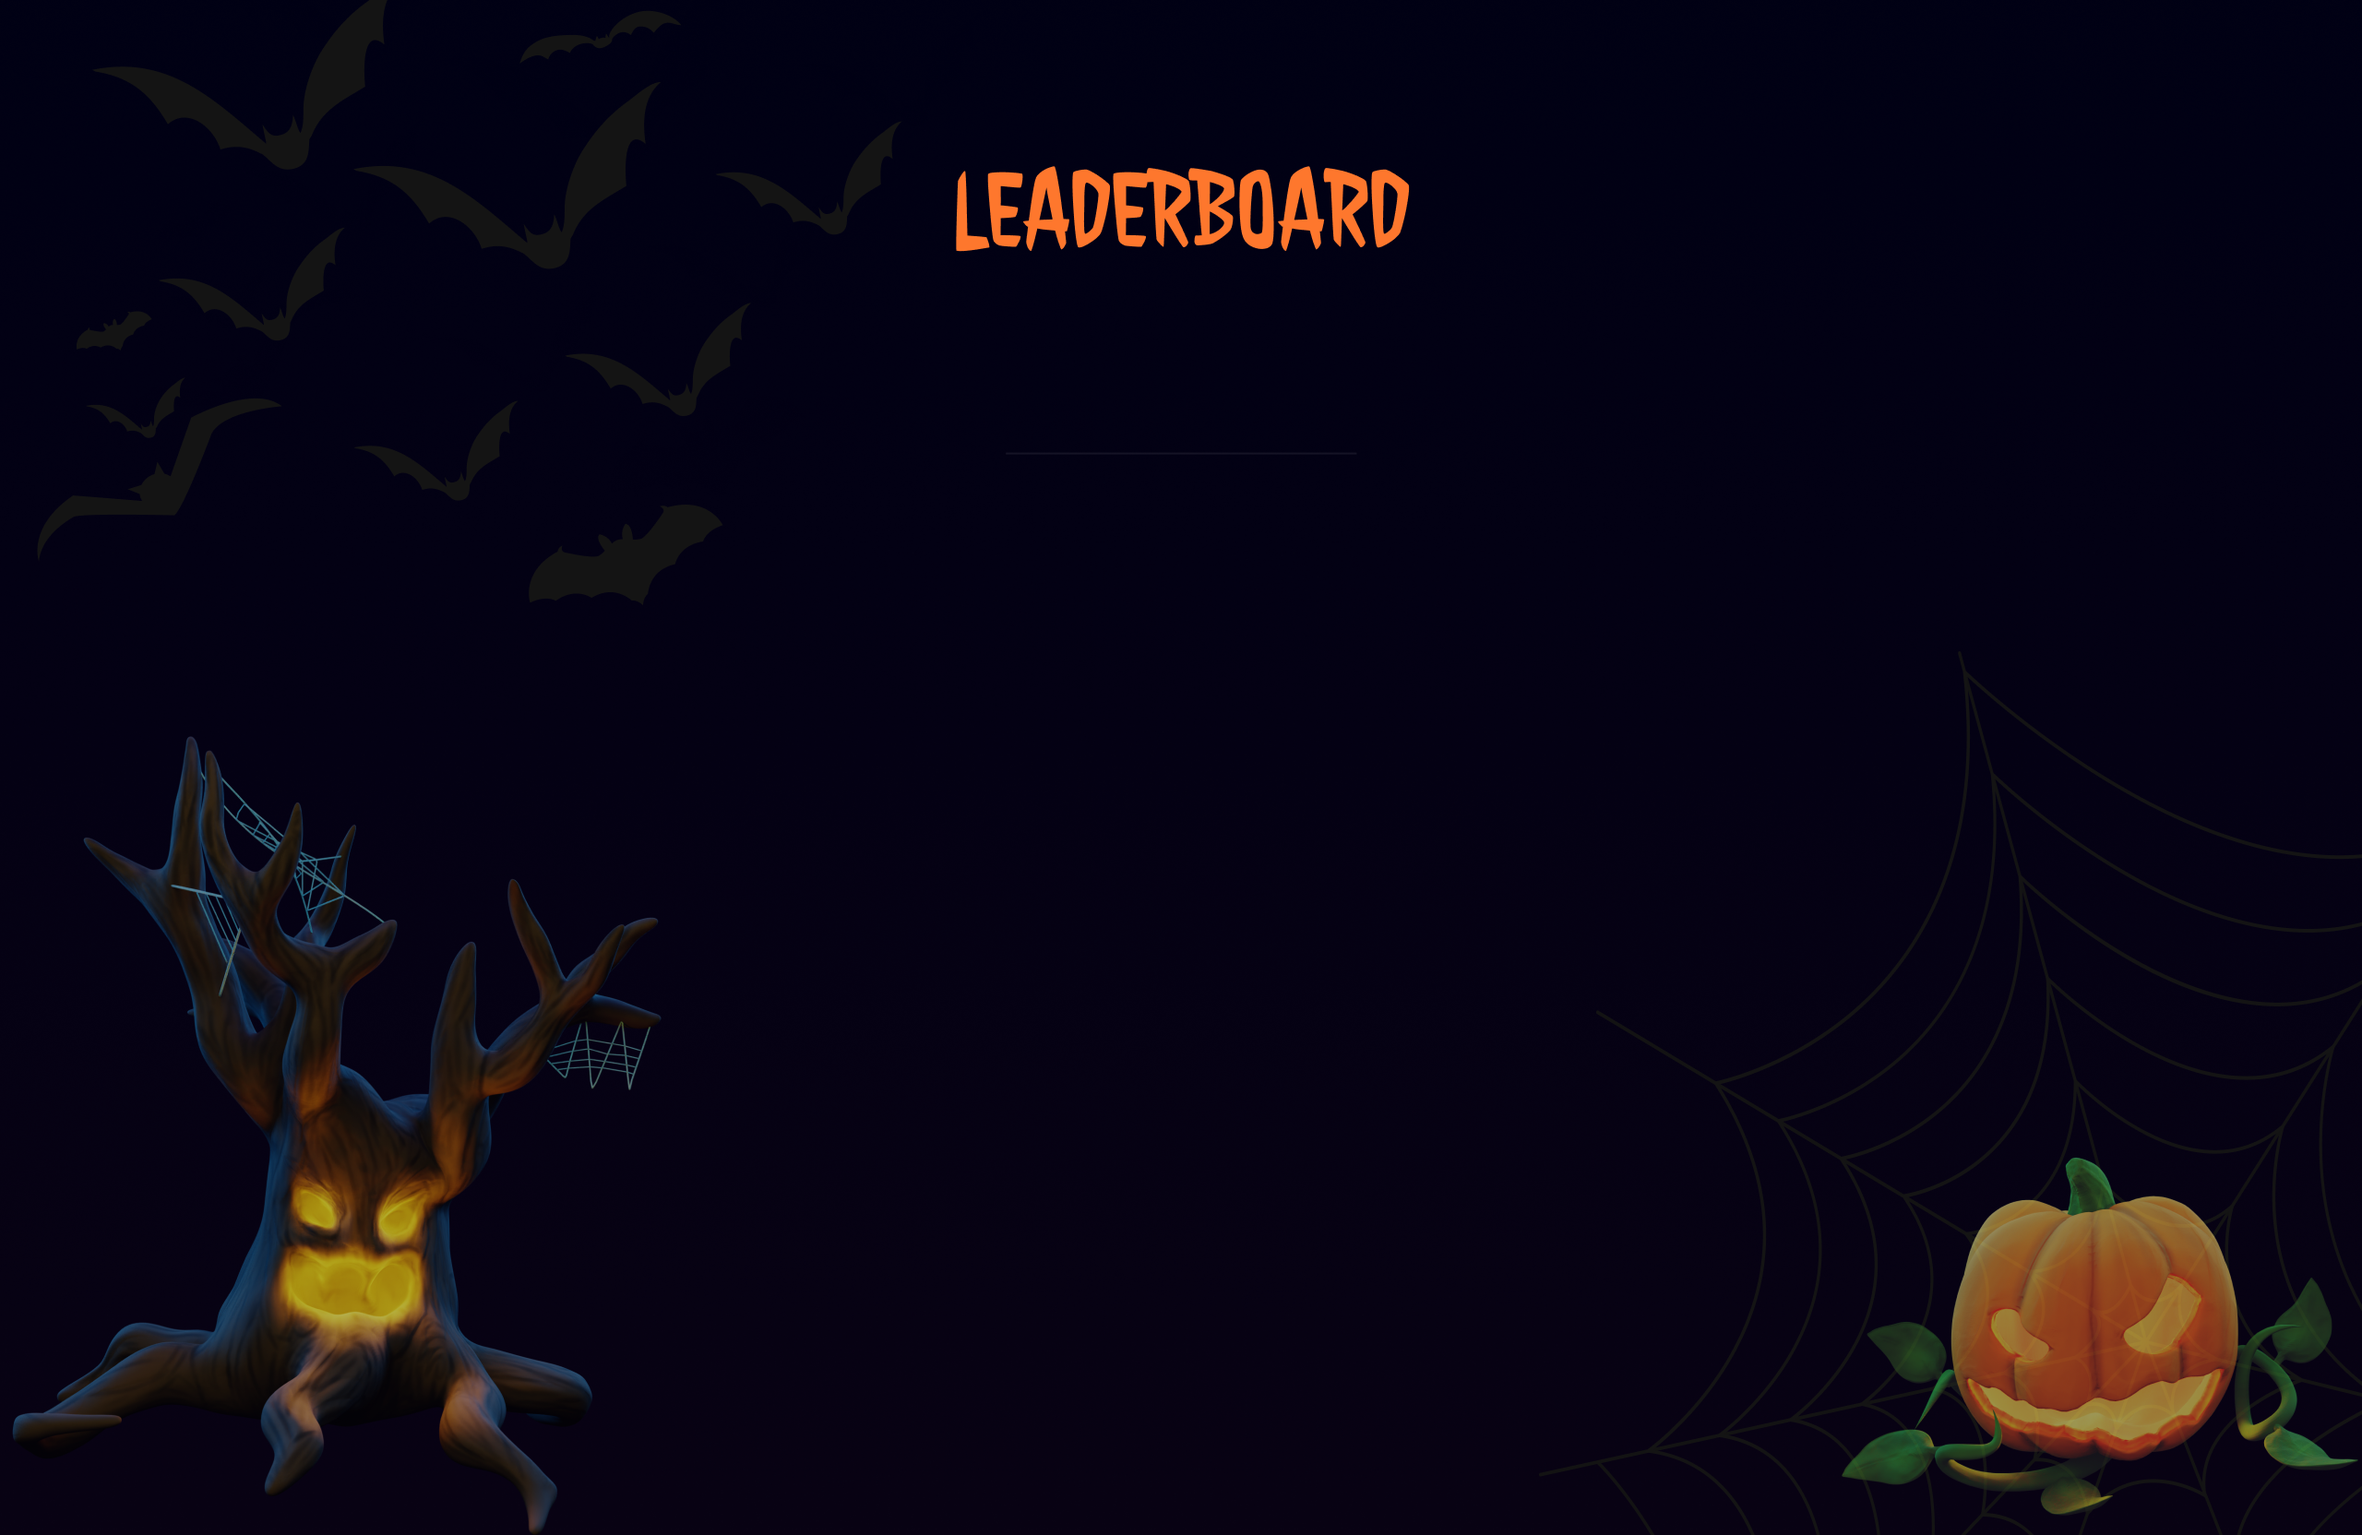
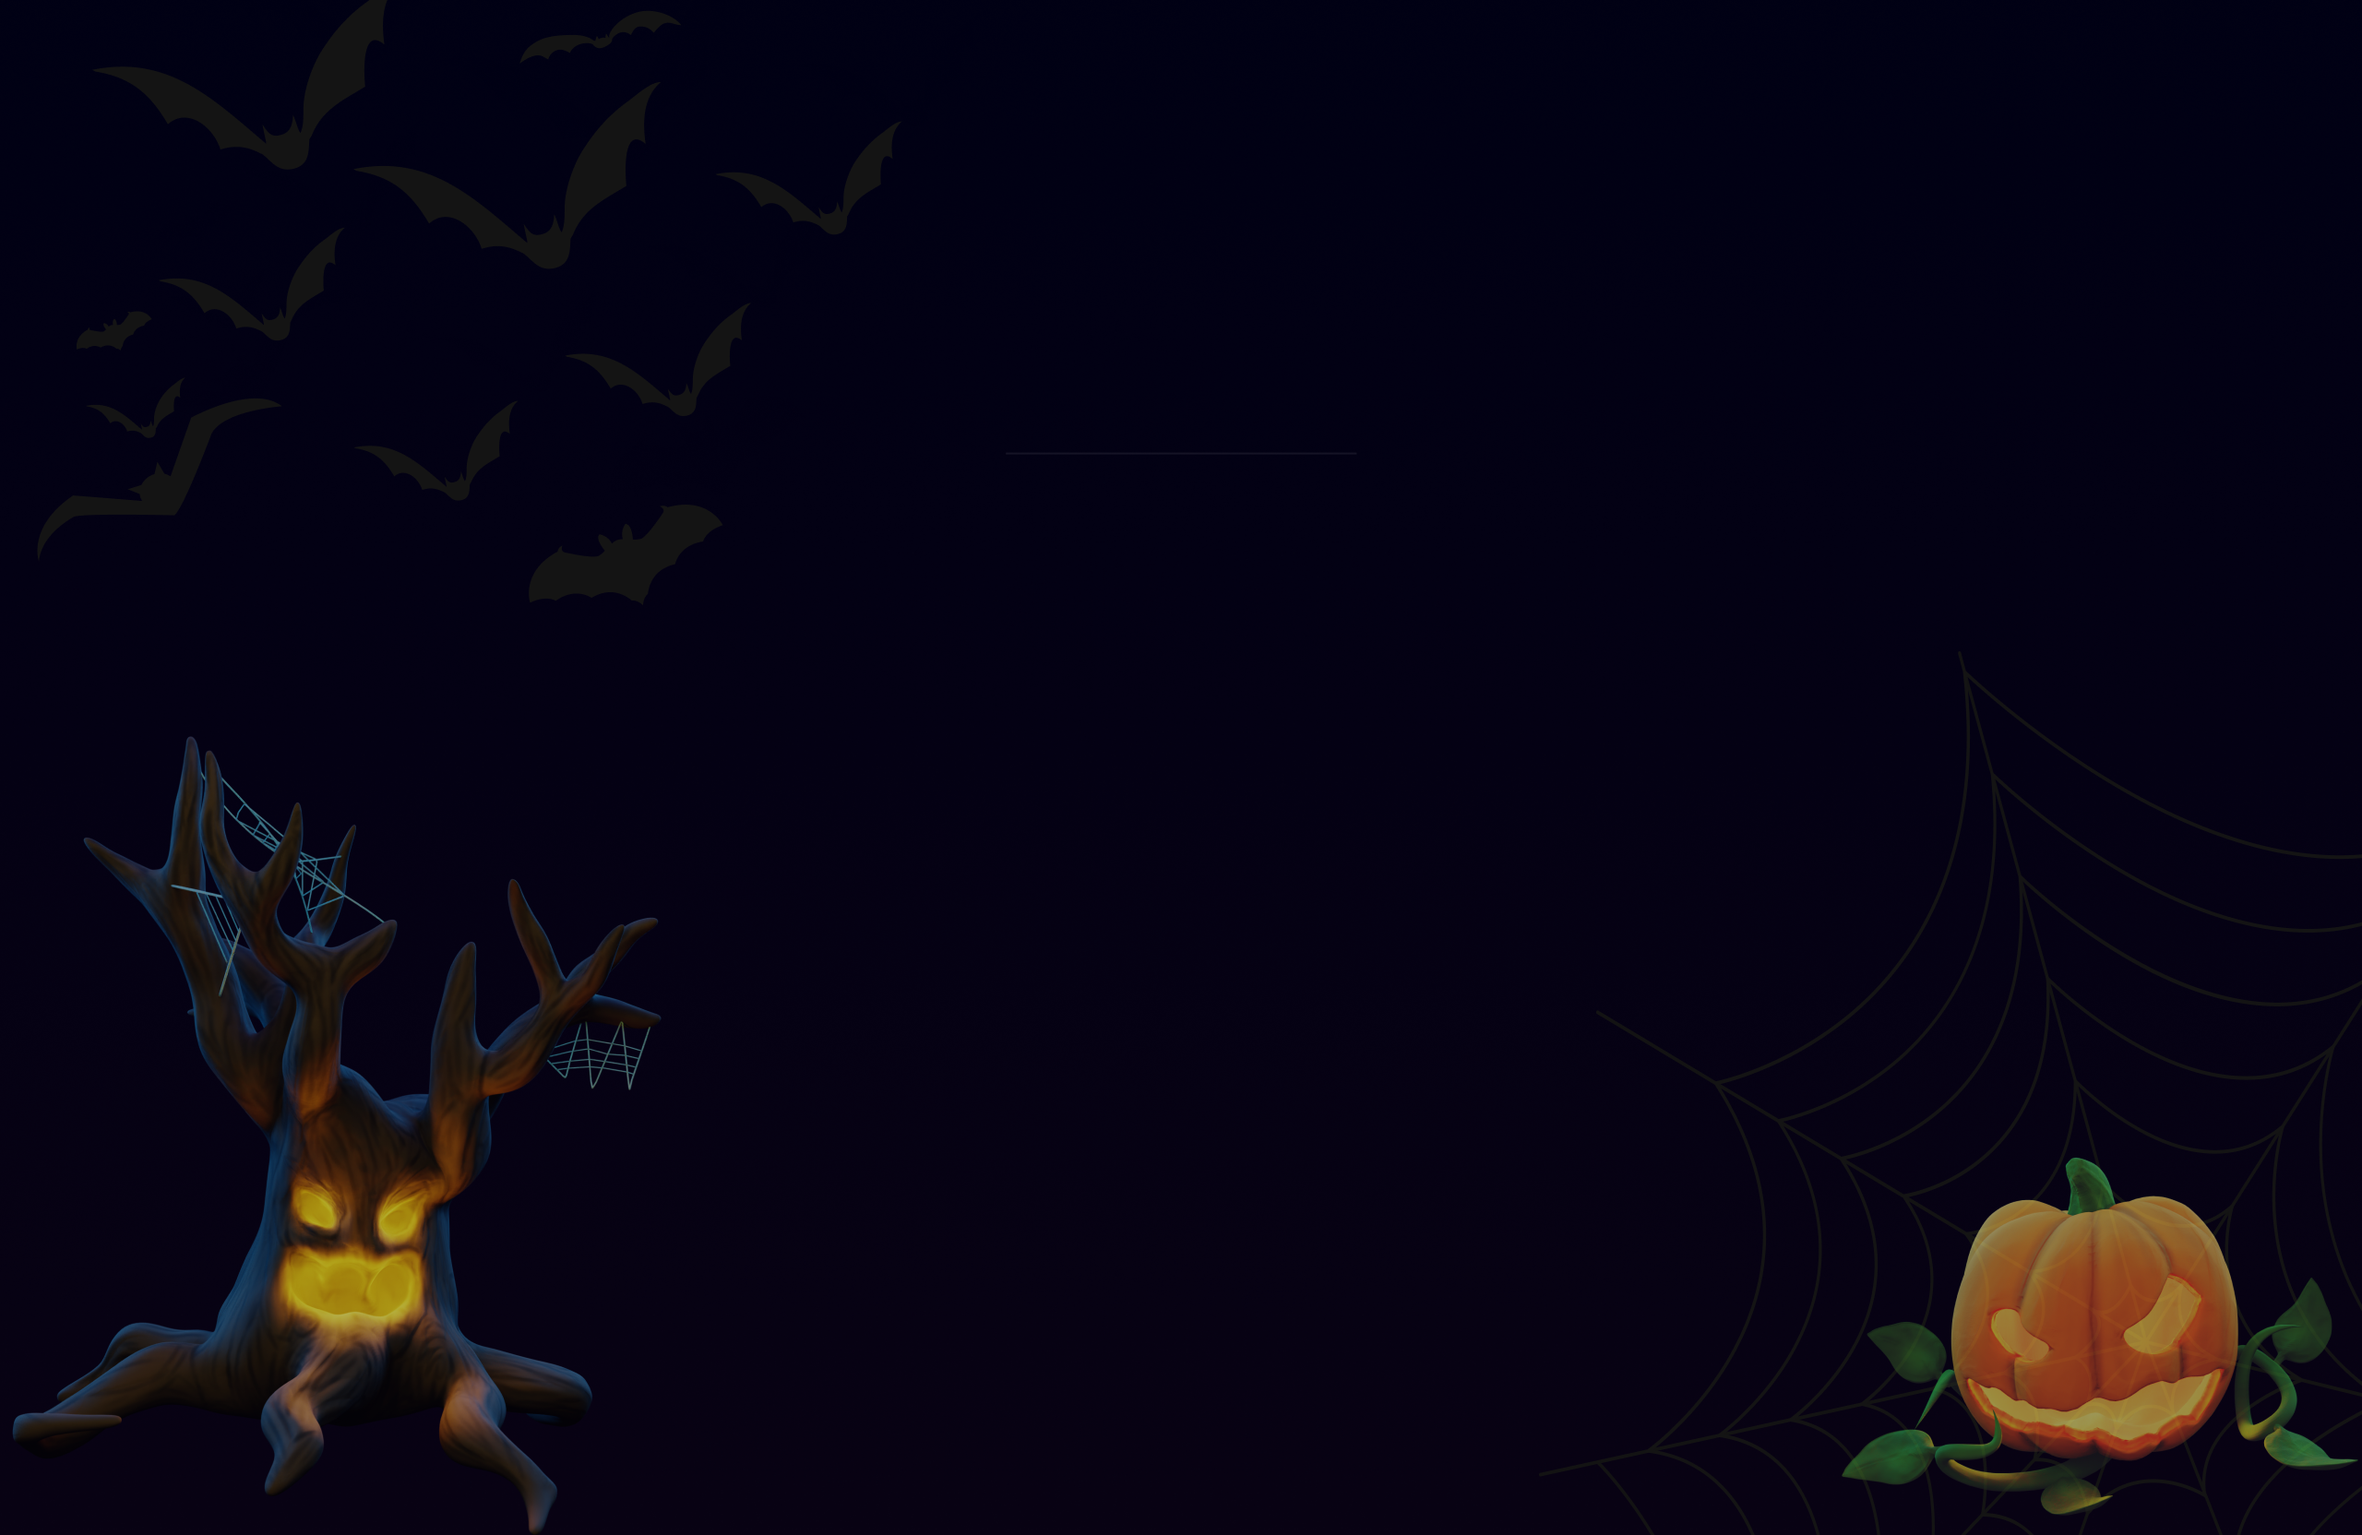
Leaderboard section fixes and responsiveness improved

Changed region(s): [[0.4062, 0.0938, 0.5938, 0.1875]]

diff --git a/app/page.js b/app/page.js
@@ -169,15 +169,15 @@ export default function Home() {
           />
           {/* Loading GIF overlay */}
           <div
-            className={`absolute inset-0 z-20 flex items-center justify-center transition-opacity duration-300 pointer-events-none select-none ${
-              viewerReady ? "opacity-0" : "opacity-100"
-            }`}
+            className={`absolute inset-0 z-20 flex items-center justify-center transition-opacity duration-300 pointer-events-none select-none ${viewerReady ? "opacity-0" : "opacity-100"
+              }`}
           >
             <Image
               src="/hero_section/loading.gif"
               alt="Loading 3D Model"
               width={160}
               height={160}
+              unoptimized={true}
               priority
               style={{ width: "auto", height: "auto" }}
             />
@@ -240,21 +240,18 @@ export default function Home() {
       />
 
       {/* Leaderboard Section */}
-     
 
-    <div>
-      <Head>
-        <title>Spooky Leaderboard</title>
-        <link href="https://fonts.googleapis.com/css2?family=Creepster&display=swap" rel="stylesheet" />
-        {/* You might want to prefetch images for the background here */}
-      </Head>
 
-      <main>
-        {/* Other sections of your webpage can go here */}
+      <div>
+        <Head>
+          <title>Spooky Leaderboard</title>
+          <link href="https://fonts.googleapis.com/css2?family=Creepster&display=swap" rel="stylesheet" />
+          {/* You might want to prefetch images for the background here */}
+        </Head>
+
         <Leaderboard />
-        {/* More sections */}
-      </main>
-    </div>
+
+      </div>
 
 
       {/* About Party, Prize Pool & FAQ Container with Shared Background */}

diff --git a/app/components/Navbar.js b/app/components/Navbar.js
@@ -62,11 +62,11 @@ export default function Navbar() {
           <Image
             src="/djs-compute-logo.png"
             alt="Dis Compute Logo"
-            width={150}
-            height={70}
-            className="brightness-0 invert"
+            width={240}
+            height={110}
+            className="brightness-0 invert h-14 md:h-16"
             priority
-            style={{ width: 'auto', height: '40px' }}
+            style={{ width: 'auto', height: '56px' }}
           />
         </a>
 
@@ -84,7 +84,7 @@ export default function Navbar() {
           href="https://forms.gle/ZPR8EcxSGZSgBQWQ9"
           target="_blank"
           rel="noopener noreferrer"
-          className="bg-orange-500 hover:bg-orange-600 text-white px-6 py-2.5 rounded-lg font-semibold text-lg transition-all transform hover:scale-105 nosifer-regular"
+          className="bg-orange-500 hover:bg-orange-600 text-white px-6 py-2.5 rounded-lg font-semibold text-sm md:text-lg transition-all transform hover:scale-105 nosifer-regular"
         >
           Register Now
         </a>

diff --git a/app/components/Leaderboard.js b/app/components/Leaderboard.js
@@ -2,7 +2,7 @@ import React, { useEffect, useState, useMemo } from 'react'; // Added useMemo
 import Image from 'next/image';
 import styles from './Leaderboard.module.css';
 
-const REFRESH_INTERVAL = 20 * 1000; // 20 seconds
+const REFRESH_INTERVAL = 30 * 1000; // 30 seconds
 const TEAMS_PER_PAGE = 7; // Number of teams to display per page in the scrollable section
 
 const Leaderboard = () => {
@@ -89,10 +89,11 @@ const Leaderboard = () => {
   return (
     <section id="leaderboard" className={styles.leaderboardSection}>
       {error && <p className={styles.errorText}>{error}</p>}
-      <br/>
-      <br/>
-      <br/>
-      <div className={styles.top3}>
+  <br/>
+  <br/>
+  <br/>
+  <h2 className={`${styles.leaderboardTitle} jolly-lodger-regular`}>Leaderboard</h2>
+  <div className={styles.top3}>
         {teams[1] && ( // 2nd Place
           <div className={styles.podiumWrapper}>
             <span className={styles.teamNameAbovePodium}>{teams[1].teamName}</span>

diff --git a/app/components/Leaderboard.module.css b/app/components/Leaderboard.module.css
@@ -3,7 +3,7 @@
   flex-direction: column;
   align-items: center;
   /* Add padding-top to create space for background title */
-  padding: 120px 20px 30px; /* Reduced top padding slightly */
+  padding: 90px 20px 30px; /* Reduced top padding slightly */
   min-height: 100vh;
   color: #fff;
   font-family: "Creepster", cursive;
@@ -16,9 +16,19 @@
   background-repeat: no-repeat;
 }
 
-/* Hide the h1 element as per request, background provides it */
+/* Leaderboard title styling (responsive) */
 .leaderboardTitle {
-  display: none;
+  display: block;
+  width: 100%;
+  text-align: center;
+  color: #ff8a2b; /* Halloween orange */
+  margin: 0 0 30px 0;
+  /* Responsive size: scales between 2.2rem and 5rem */
+  font-size: clamp(2.2rem, 6.5vw, 5rem);
+  line-height: 1;
+  text-transform: uppercase;
+  letter-spacing: 0.06em;
+  z-index: 2;
 }
 
 .top3 {
